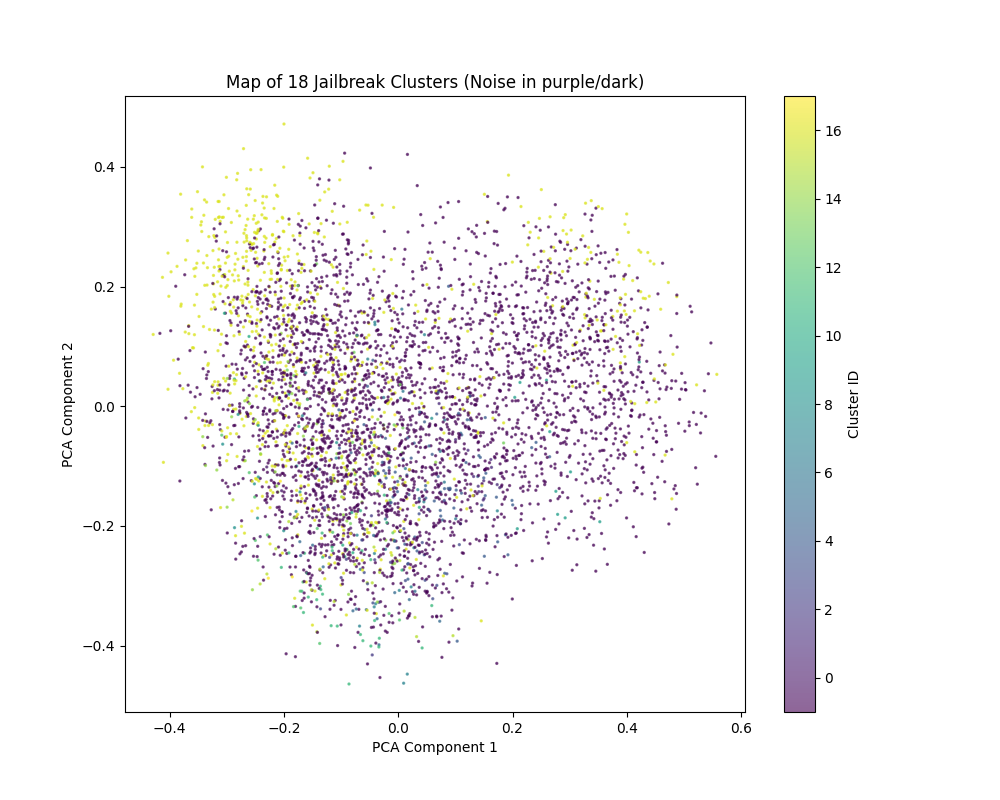
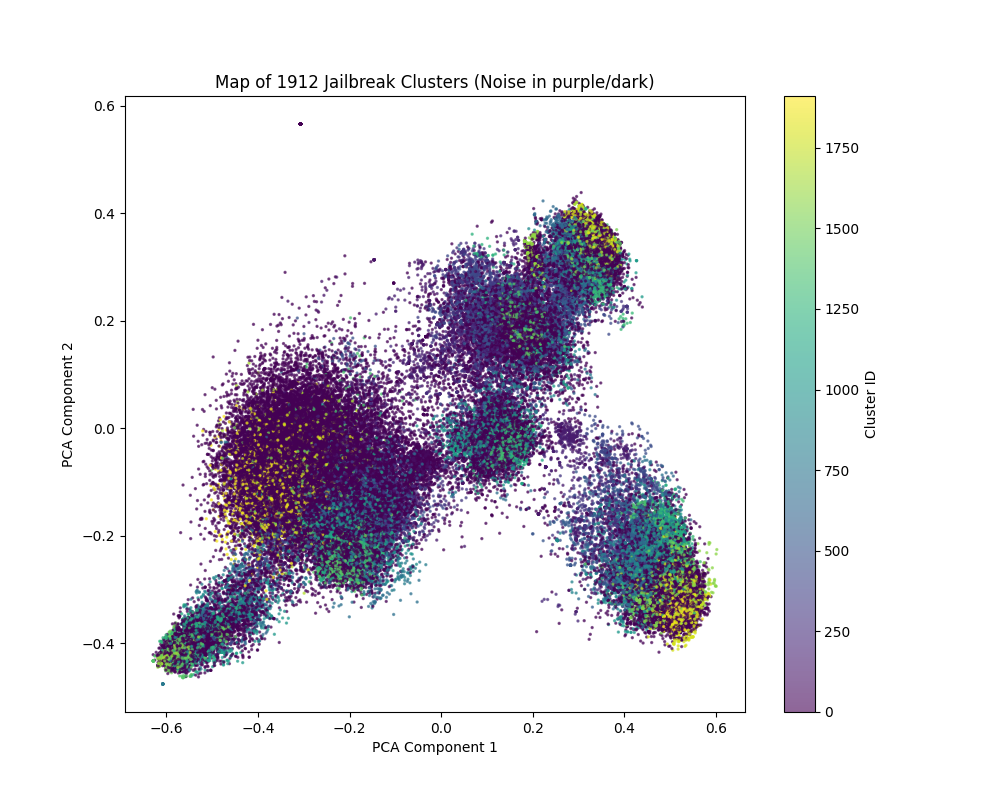
feat: :zap: improve performance of embedding

diff --git a/02_embed.py b/02_embed.py
@@ -1,42 +1,81 @@
-# 02_embed.py
 import os
 import sys
+# --- FIX CRÍTICO: Evita que Spark y HuggingFace se bloqueen mutuamente ---
+os.environ["TOKENIZERS_PARALLELISM"] = "false"
+
 from pyspark.sql import SparkSession
 from sentence_transformers import SentenceTransformer
 import pandas as pd
 
+# Inicializar Spark
 spark = SparkSession.builder \
-    .appName("JailbreakEmbedding") \
+    .appName("JailbreakEmbedding_Turbo") \
     .config("spark.driver.memory", "8g") \
     .config("spark.executor.memory", "4g") \
     .getOrCreate()
 
-print(">>> Loading processed data...")
+print(">>> Cargando datos procesados...")
 df = spark.read.parquet("processed_data")
 
-# Repartition ensures we use all your cores (e.g., 10 partitions for 10 cores)
-df = df.repartition(10)
+# OPTIMIZACIÓN: Reparticionar según tus núcleos de CPU
+# Si tienes 8 núcleos, usa 8 o 16 particiones.
+NUM_PARTITIONS = 8 
+df = df.repartition(NUM_PARTITIONS)
+print(f"   -> Datos repartidos en {NUM_PARTITIONS} procesos paralelos.")
 
-def embed_partition(iterator):
-    # This runs INSIDE the worker process.
-    # We load the model once per partition (Efficient)
-    print("--- Initializing Model in Worker ---")
+def embed_partition_batch(iterator):
+    """
+    Procesa los datos en LOTES (Batches).
+    Esto es mucho más rápido que hacerlo fila por fila.
+    """
+    print(f"--- Iniciando Worker en proceso {os.getpid()} ---")
+    
+    # Cargar el modelo una sola vez por proceso (en CPU)
     model = SentenceTransformer('all-MiniLM-L6-v2', device='cpu')
     
+    batch_size = 64  # Procesamos 64 textos de golpe
+    batch_texts = []
+    batch_labels = []
+    
+    count = 0
+    
     for row in iterator:
-        # Encode returns a numpy array, we convert to list for Spark
-        vector = model.encode(row.text, normalize_embeddings=True).tolist()
-        yield (vector, row.label)
+        batch_texts.append(row.text)
+        batch_labels.append(row.label)
+        
+        # Cuando llenamos el lote, procesamos
+        if len(batch_texts) >= batch_size:
+            # La magia: encode() es vectorizado, muy rápido con listas
+            embeddings = model.encode(batch_texts, normalize_embeddings=True, show_progress_bar=False)
+            
+            # Devolvemos los resultados uno por uno
+            for i, emb in enumerate(embeddings):
+                yield (emb.tolist(), batch_labels[i])
+            
+            count += len(batch_texts)
+            if count % 1000 == 0:
+                print(f"[Worker {os.getpid()}] Procesadas {count} filas...")
+                
+            # Limpiar lote
+            batch_texts = []
+            batch_labels = []
+            
+    # Procesar el último lote (remanente)
+    if batch_texts:
+        embeddings = model.encode(batch_texts, normalize_embeddings=True, show_progress_bar=False)
+        for i, emb in enumerate(embeddings):
+            yield (emb.tolist(), batch_labels[i])
+        print(f"[Worker {os.getpid()}] ¡Terminado! Total: {count + len(batch_texts)}")
 
-print(">>> Starting Distributed Embedding (MapPartitions)...")
+print(">>> Iniciando Embedding Distribuido (Modo Batch)...")
+print("    (Esto puede tomar unos minutos, pero verás logs de progreso)")
 
-# Apply the function to each partition
-rdd = df.rdd.mapPartitions(embed_partition)
+# MapPartitions permite manejar la iteración manualmente para hacer batching
+rdd = df.rdd.mapPartitions(embed_partition_batch)
 
-# Convert back to DataFrame
-# Schema: features (List of Floats), label (Int)
+# Convertir de nuevo a DataFrame
 df_embeddings = rdd.toDF(["features", "label"])
 
-print(">>> Saving Embeddings...")
+print(">>> Guardando Embeddings Finales...")
 df_embeddings.write.mode("overwrite").parquet("embeddings_final")
-print(">>> Done.")
+print(">>> ¡Proceso Terminado Exitosamente!")
